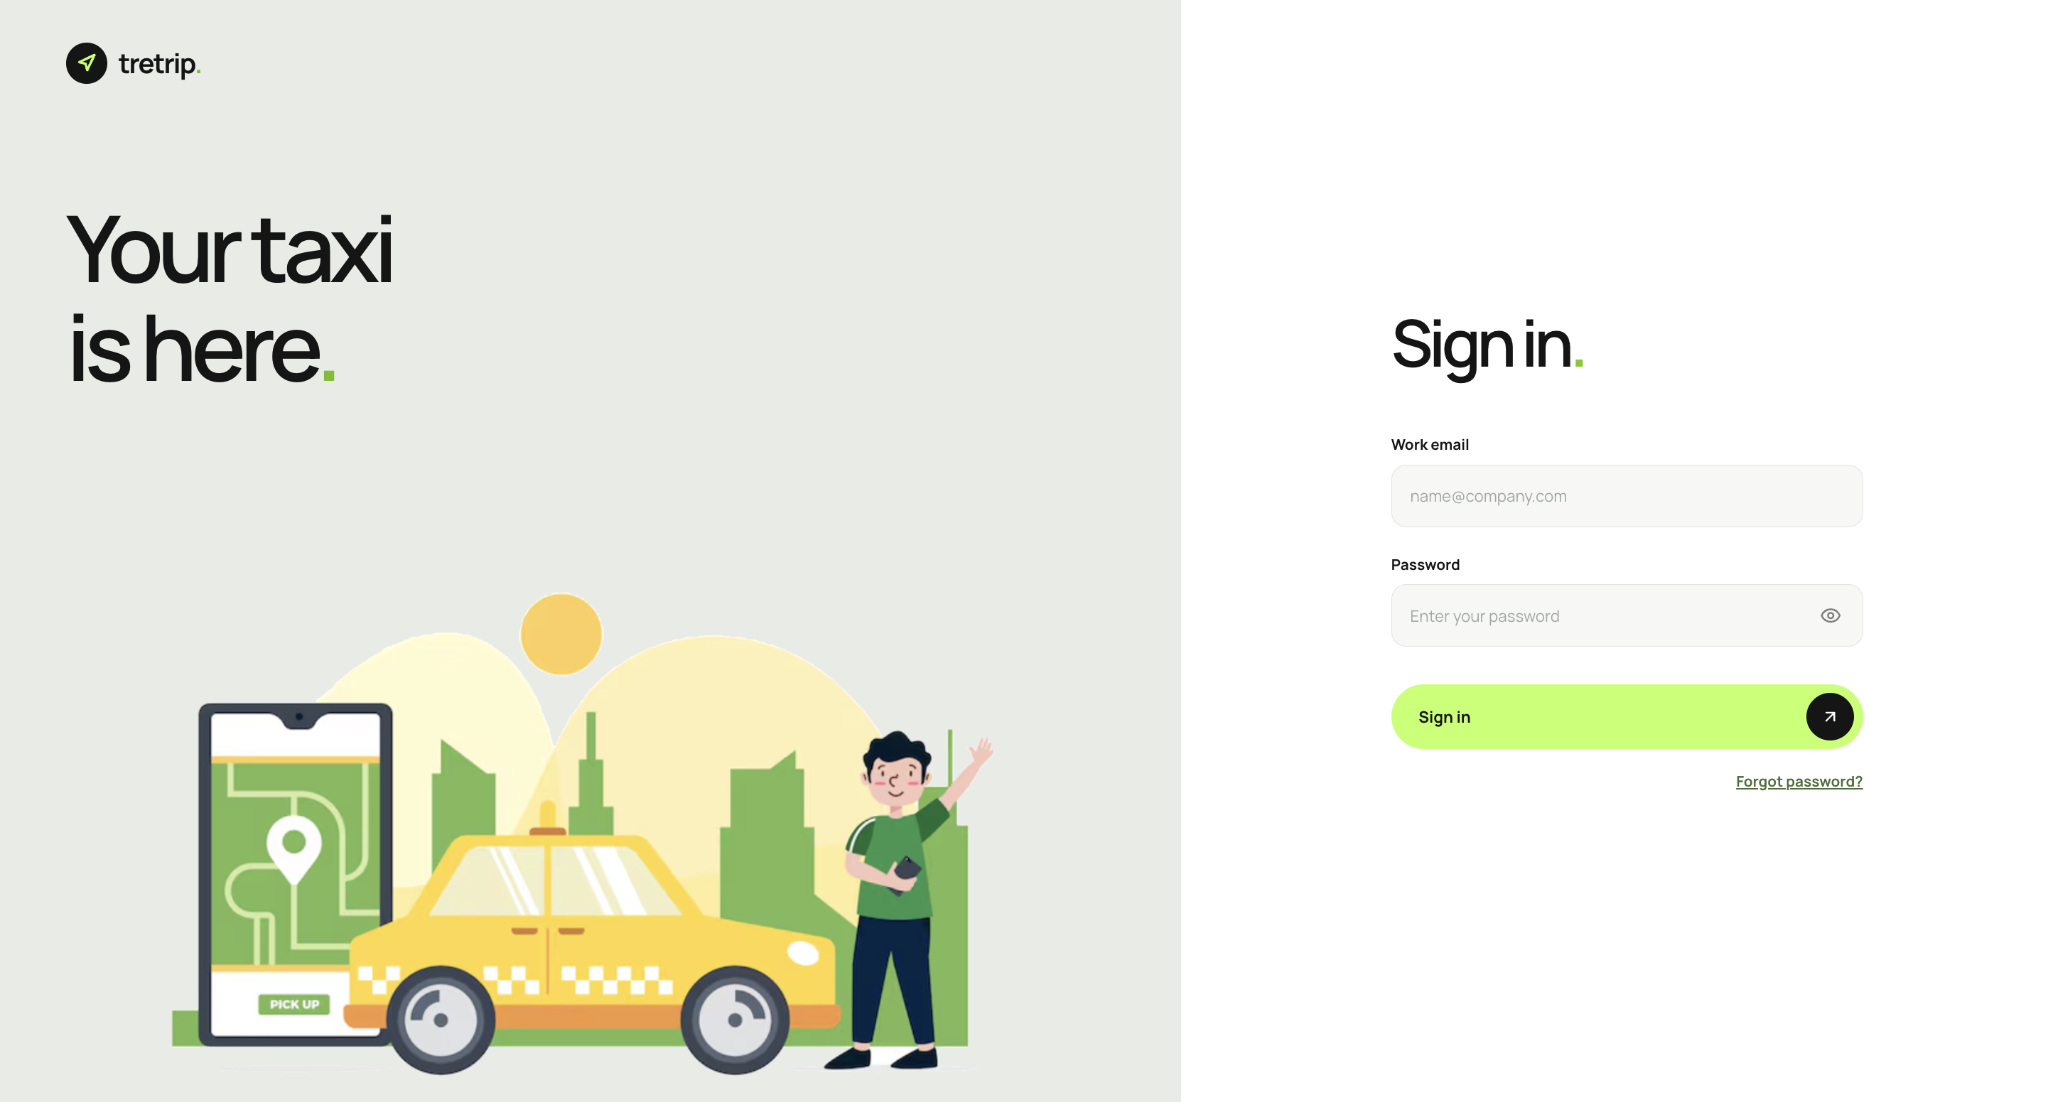
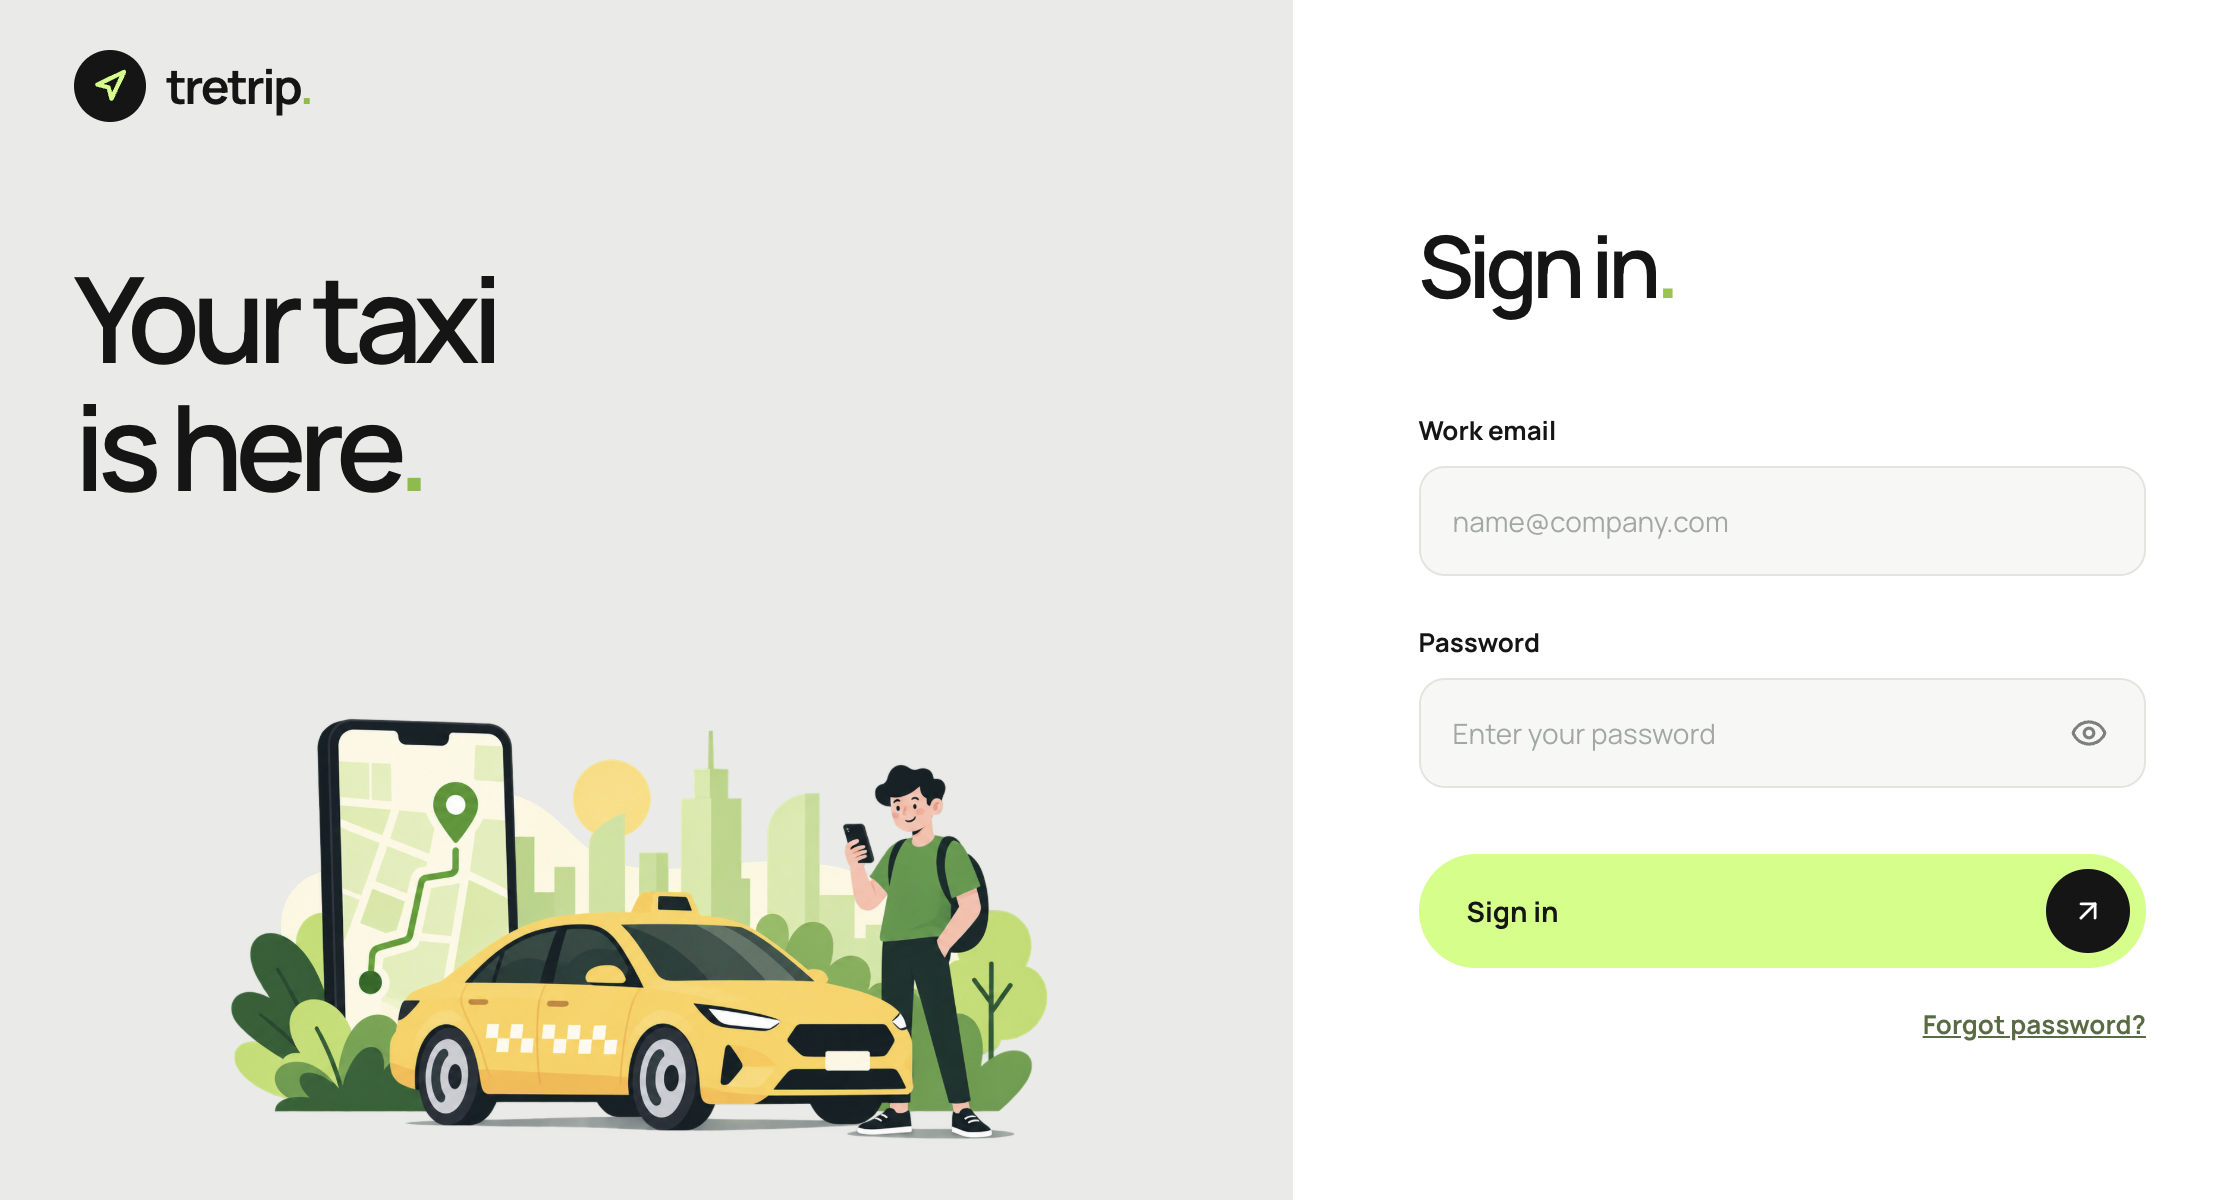
style: update login illustration and layout

diff --git a/frontend/src/index.css b/frontend/src/index.css
@@ -47,7 +47,14 @@ a { color: inherit; }
 .tt-hero-title { position: relative; z-index: 2; margin: clamp(58px, 10vh, 115px) 0 0; font-size: clamp(53px, 5.2vw, 81px); letter-spacing: -.065em; font-weight: 600; line-height: 1.075; max-width: 740px; }
 .tt-hero-title span { color: #82bc38; }
 .tt-taxi-stage { width: 100%; margin: auto 0 0; padding-top: clamp(30px, 5vh, 55px); display: flex; align-items: flex-end; justify-content: center; background: transparent; border: 0; border-radius: 0; box-shadow: none; overflow: visible; min-height: 0; }
-.tt-taxi-image { display: block; width: min(100%, 790px); height: auto; max-height: min(49vh, 440px); object-fit: contain; object-position: center bottom; }
+.tt-taxi-image {
+  display: block;
+  width: min(100%, 920px);
+  height: min(60vh, 570px);
+  max-height: none;
+  object-fit: contain;
+  object-position: center bottom;
+}
 .tt-auth-panel { min-height: 100vh; display: flex; align-items: center; justify-content: center; padding: 56px clamp(40px, 5.5vw, 90px); background: #fff; }
 .tt-auth-mobile-brand { display: none; }
 .tt-auth-card { width: 100%; max-width: 415px; }
